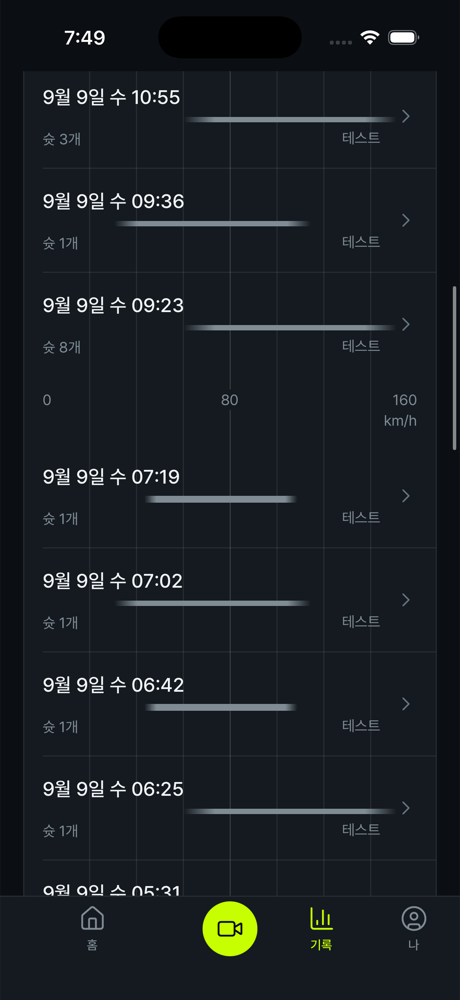
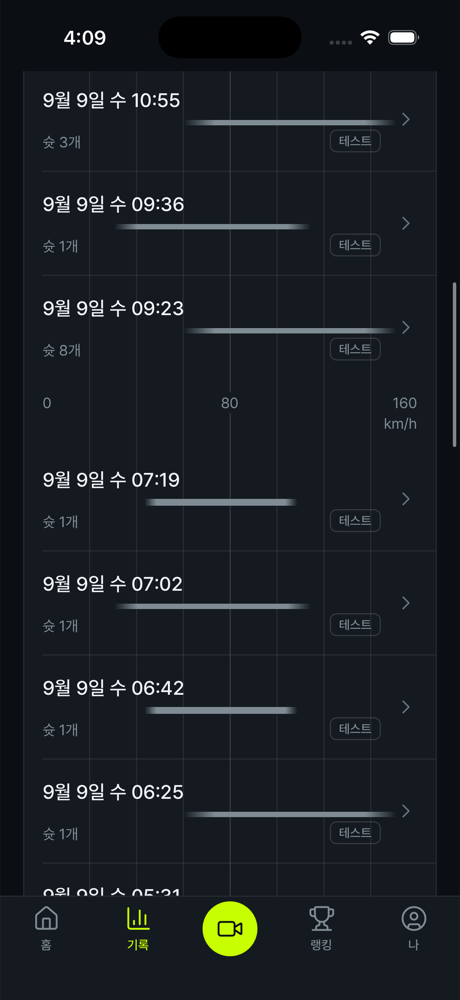
docs(stryke): v5 design record — 15/15 screens re-shot, feedback buttons, design kit
Claude-Session: https://claude.ai/code/session_01YWejWstpsLFcn8hGH8c6eE

diff --git a/stryke/design.html b/stryke/design.html
@@ -22,7 +22,7 @@ ul,ol{color:var(--text2);padding-left:22px}li{margin:4px 0}
 @media(max-width:720px){.pair,.refs{grid-template-columns:1fr}.icons{columns:1}}
 </style></head><body><main>
 <h1>STRYKE — 디자인 기록 v5</h1>
-<p class="lede">앱이 지금 어떻게 보이는지, 왜 그렇게 바꾸는지, 그리고 어디를 눌러 피드백을 남기는지. <span class="meta">생성 2026-09-14 06:56Z · <a href="https://github.com/vxbrandon/stryke/issues?q=is%3Aissue+label%3Adesign-feedback">열린 피드백 보기</a></span></p>
+<p class="lede">앱이 지금 어떻게 보이는지, 왜 그렇게 바꾸는지, 그리고 어디를 눌러 피드백을 남기는지. <span class="meta">생성 2026-09-14 07:09Z · <a href="https://github.com/vxbrandon/stryke/issues?q=is%3Aissue+label%3Adesign-feedback">열린 피드백 보기</a></span></p>
 <nav class="toc"><a href="#log">진단</a><a href="#refs">레퍼런스</a><a href="#screens">화면 (15)</a><a href="#lane3d">3D 레인</a><a href="#kit">디자인 키트</a><a href="#assets">에셋</a><a href="#howto">피드백 방법</a></nav>
 
 <div class="card" id="howto"><h3>피드백 남기는 법 · How to leave feedback</h3>
@@ -123,6 +123,21 @@ ul,ol{color:var(--text2);padding-left:22px}li{margin:4px 0}
 </ol>
 <p>I shot the nine by hand under the lock, reading each frame: restored 한국어, deleted the two sessions the taps had made (device copy; the sheet says the server row stays, and it does), and took the keeper from a 36-second sampling of the replay — sample 5, the dive off the ground. The gate's fifteen entries were stamped only after each frame was read. Published: 15/15.</p>
 <p><b>The picture, judged by me before the judges.</b> 슛 and 세션 read as a floodlit pitch (<code>frames/shot.png</code>, <code>frames/session.png</code>): mown bands, the mast and its haze, a white goal, a thin tracer, the launch pool. 키퍼 frames the save. 홈's card carries the same picture at 132 pt. What I still see: the sky above the horizon is flat near-black where r6 has floodlight glare; the ball at the corner is a few pixels; the card's goal is small. The judges will say whether those are gaps or the honest cost of an 18 m flight drawn at scale.</p>
+<h3>2026-09-14 08:40 — the judges, and chrome batch 2 (<code>f0c0a35</code>)</h3>
+<p><b>What the judges were.</b> Four lenses over the fifteen frames — production (a Strava/NRC/Whoop designer), reference (r6 only, with crops), honesty, craft (pixels against the tokens) — with the evidence rule. Scores 56 / 58 / 58 / 66. <b>The refute stage did not run</b>: 37 of its 51 agents died on the account's session limit, so <code>09-VERDICTS-V5.md</code> holds one judge's claim per gap, unrefuted. I treated each as a claim to check, not a verdict.</p>
+<p><b>The one BLOCKING finding was right and was mine to catch.</b> Three frames were one byte-identical 세팅 screenshot filed as 기록 · 나 · 랭킹, and two more were the wrong screen — the console's second run had overwritten the fork's good frames from the morning and I had read only the frames I shot or deep-linked myself. Fixed by hand (<code>dfdeba5</code>), and the gate now refuses a duplicated image, which is the check that would have caught it.</p>
+<p><b>What batch 2 took from the chrome gaps, and why:</b></p>
+<ul>
+<li><b>랭킹 is the fourth tab.</b> The judges measured the 1:2 grouping (홈 361 px from the disc, 241 px between 기록 and 나) and named it the uneven rhythm no shipped bar has. Three tabs around a centred disc cannot be even; four can, and 랭킹 was already a destination with its own route. This reverses the v3 IA decision (3 + capture) — on evidence, not taste. Its back chevron and its duplicate row on 나 go with it.</li>
+<li><b>A refusal is a left-aligned heading</b>, not a centred display word: the state word was the loudest object on 세션 · 측정 안 됨.</li>
+<li><b>An empty axis prints <code>160 km/h</code> on one line.</b> The stacked unit was a second line under the last tick on every empty and card axis.</li>
+<li><b>An empty hero draws the instrument at the card's 12 pt.</b> The v3.4 rule (&quot;an absence draws the instrument&quot;) stands; 164 pt of groove for nothing did not.</li>
+<li><b>One drawing for 테스트</b>: <code>Tag</code> in list rows and on 비교; 나's card no longer carries two.</li>
+<li><b>Chart hedges share one foot line</b> (<code>기록 없음 · 진행 중</code>).</li>
+<li><b>키퍼: the measurement stands above the caveat</b>, and the value says where the ball crossed (골문 안 / 골문 밖) instead of 유효 — a verdict word on a drawn keeper was an honesty gap the honesty judge found.</li>
+<li>Copy: the delete row's one-syllable widow; <code>확인 중 0</code> is not printed.</li>
+</ul>
+<p><b>Left with the picture lane</b> (sent, with the judges' numbers): the mast head that reads as an iOS &quot;⋯&quot; on the header line, the 40 % black sky slab, the net moiré, the save framed without the ball, the card framing, the vertical-pole map view, the mannequin head, the horizon wedge, the launch pool. <b>Deferred</b>, with the reason: the keeper picture as a bleed (a layout change across a screen the picture lane is mid-edit on); lifting 비교's verdict out of its card; the 슛 segmented control's scrim; the 144 pt capture counter. Each is in <code>09-VERDICTS-V5.md</code> for the next batch.</p>
 
 <h2 id="refs">레퍼런스 보드</h2>
 <p>왼쪽이 창업자가 남긴 방향(r6): 조명 아래의 진짜 잔디, 흰 골대와 그물, 하나의 라임 궤적. 오른쪽 둘(r5)은 홀로그램 계열 — 앱이 지금까지 따라가던 쪽이고, v5가 떠나는 쪽.</p>
@@ -139,7 +154,7 @@ ul,ol{color:var(--text2);padding-left:22px}li{margin:4px 0}
   <p class="shows">이번 주 최고, 이번 주 카운트, 최근 세션 카드, 촬영 시작</p>
   <div class="pair">
     <figure><figcaption>BEFORE · v4.1 (13 Sep)</figcaption><img loading="lazy" src="design-v5/img/before-home.png" alt="홈 before"></figure>
-    <figure><figcaption>AFTER · v5 (2026-09-13 22:56)</figcaption><img loading="lazy" src="design-v5/img/after-home.png" alt="홈 after"></figure>
+    <figure><figcaption>AFTER · v5 (2026-09-14 07:09)</figcaption><img loading="lazy" src="design-v5/img/after-home.png" alt="홈 after"></figure>
   </div>
 </section>
 
@@ -151,7 +166,7 @@ ul,ol{color:var(--text2);padding-left:22px}li{margin:4px 0}
   <p class="shows">주간 컬럼 차트, 카드 스케일의 개인 최고, 세션 목록의 머리</p>
   <div class="pair">
     <figure><figcaption>BEFORE · v4.1 (13 Sep)</figcaption><img loading="lazy" src="design-v5/img/before-records.png" alt="기록 before"></figure>
-    <figure><figcaption>AFTER · v5 (2026-09-14 06:56)</figcaption><img loading="lazy" src="design-v5/img/after-records.png" alt="기록 after"></figure>
+    <figure><figcaption>AFTER · v5 (2026-09-14 07:09)</figcaption><img loading="lazy" src="design-v5/img/after-records.png" alt="기록 after"></figure>
   </div>
 </section>
 
@@ -163,7 +178,7 @@ ul,ol{color:var(--text2);padding-left:22px}li{margin:4px 0}
   <p class="shows">게스트 문장과 카드 스케일 개인 최고, 랭킹·인증·내보내기·설정 행</p>
   <div class="pair">
     <figure><figcaption>BEFORE · v4.1 (13 Sep)</figcaption><img loading="lazy" src="design-v5/img/before-me.png" alt="나 before"></figure>
-    <figure><figcaption>AFTER · v5 (2026-09-14 06:56)</figcaption><img loading="lazy" src="design-v5/img/after-me.png" alt="나 after"></figure>
+    <figure><figcaption>AFTER · v5 (2026-09-14 07:09)</figcaption><img loading="lazy" src="design-v5/img/after-me.png" alt="나 after"></figure>
   </div>
 </section>
 
@@ -175,7 +190,7 @@ ul,ol{color:var(--text2);padding-left:22px}li{margin:4px 0}
   <p class="shows">값 컬럼 앞에서 멈추는 필드 위의 포인트</p>
   <div class="pair">
     <figure><figcaption>BEFORE · v4.1 (13 Sep)</figcaption><img loading="lazy" src="design-v5/img/before-rankings.png" alt="랭킹 before"></figure>
-    <figure><figcaption>AFTER · v5 (2026-09-14 06:56)</figcaption><img loading="lazy" src="design-v5/img/after-rankings.png" alt="랭킹 after"></figure>
+    <figure><figcaption>AFTER · v5 (2026-09-14 07:09)</figcaption><img loading="lazy" src="design-v5/img/after-rankings.png" alt="랭킹 after"></figure>
   </div>
 </section>
 
@@ -199,7 +214,7 @@ ul,ol{color:var(--text2);padding-left:22px}li{margin:4px 0}
   <p class="shows">단위·언어·라이선스·내 데이터 지우기 (나 위의 시트)</p>
   <div class="pair">
     <figure><figcaption>BEFORE · v4.1 (13 Sep)</figcaption><img loading="lazy" src="design-v5/img/before-settings.png" alt="설정 before"></figure>
-    <figure><figcaption>AFTER · v5 (2026-09-13 22:55)</figcaption><img loading="lazy" src="design-v5/img/after-settings.png" alt="설정 after"></figure>
+    <figure><figcaption>AFTER · v5 (2026-09-14 07:09)</figcaption><img loading="lazy" src="design-v5/img/after-settings.png" alt="설정 after"></figure>
   </div>
 </section>
 
@@ -211,7 +226,7 @@ ul,ol{color:var(--text2);padding-left:22px}li{margin:4px 0}
   <p class="shows">기기와 서버를 함께 지운다고 말하는 확인 시트</p>
   <div class="pair">
     <figure><figcaption>BEFORE · v4.1 (13 Sep)</figcaption><img loading="lazy" src="design-v5/img/before-delete.png" alt="나 · 모두 지우기 before"></figure>
-    <figure><figcaption>AFTER · v5 (2026-09-14 06:56)</figcaption><img loading="lazy" src="design-v5/img/after-delete.png" alt="나 · 모두 지우기 after"></figure>
+    <figure><figcaption>AFTER · v5 (2026-09-14 07:09)</figcaption><img loading="lazy" src="design-v5/img/after-delete.png" alt="나 · 모두 지우기 after"></figure>
   </div>
 </section>
 
@@ -223,7 +238,7 @@ ul,ol{color:var(--text2);padding-left:22px}li{margin:4px 0}
   <p class="shows">골대 렌더 위의 궤적, 히어로 그루브, 그 아래 필드 위의 슛 목록</p>
   <div class="pair">
     <figure><figcaption>BEFORE · v4.1 (13 Sep)</figcaption><img loading="lazy" src="design-v5/img/before-session.png" alt="세션 before"></figure>
-    <figure><figcaption>AFTER · v5 (2026-09-13 22:37)</figcaption><img loading="lazy" src="design-v5/img/after-session.png" alt="세션 after"></figure>
+    <figure><figcaption>AFTER · v5 (2026-09-14 07:09)</figcaption><img loading="lazy" src="design-v5/img/after-session.png" alt="세션 after"></figure>
   </div>
 </section>
 
@@ -247,7 +262,7 @@ ul,ol{color:var(--text2);padding-left:22px}li{margin:4px 0}
   <p class="shows">하나의 눈금 위에 두 밴드 — 이번 슛과 이전 최고</p>
   <div class="pair">
     <figure><figcaption>BEFORE · v4.1 (13 Sep)</figcaption><img loading="lazy" src="design-v5/img/before-compare.png" alt="비교 before"></figure>
-    <figure><figcaption>AFTER · v5 (2026-09-13 22:37)</figcaption><img loading="lazy" src="design-v5/img/after-compare.png" alt="비교 after"></figure>
+    <figure><figcaption>AFTER · v5 (2026-09-14 07:09)</figcaption><img loading="lazy" src="design-v5/img/after-compare.png" alt="비교 after"></figure>
   </div>
 </section>
 
@@ -259,7 +274,7 @@ ul,ol{color:var(--text2);padding-left:22px}li{margin:4px 0}
   <p class="shows">골문 앞 키퍼가 그려진 시뮬레이션과 그 아래 측정 — 다이빙 중간에 찍는다</p>
   <div class="pair">
     <figure><figcaption>BEFORE · v4.1 (13 Sep)</figcaption><img loading="lazy" src="design-v5/img/before-keeper.png" alt="키퍼 before"></figure>
-    <figure><figcaption>AFTER · v5 (2026-09-13 22:53)</figcaption><img loading="lazy" src="design-v5/img/after-keeper.png" alt="키퍼 after"></figure>
+    <figure><figcaption>AFTER · v5 (2026-09-14 07:09)</figcaption><img loading="lazy" src="design-v5/img/after-keeper.png" alt="키퍼 after"></figure>
   </div>
 </section>
 
@@ -271,7 +286,7 @@ ul,ol{color:var(--text2);padding-left:22px}li{margin:4px 0}
   <p class="shows">스크롤 중간에서 되풀이되는 눈금과, 자기 줄 위에 놓인 마크들</p>
   <div class="pair">
     <figure><figcaption>BEFORE · v4.1 (13 Sep)</figcaption><img loading="lazy" src="design-v5/img/before-session-list.png" alt="기록 · 세션 목록 before"></figure>
-    <figure><figcaption>AFTER · v5 (2026-09-13 22:53)</figcaption><img loading="lazy" src="design-v5/img/after-session-list.png" alt="기록 · 세션 목록 after"></figure>
+    <figure><figcaption>AFTER · v5 (2026-09-14 07:09)</figcaption><img loading="lazy" src="design-v5/img/after-session-list.png" alt="기록 · 세션 목록 after"></figure>
   </div>
 </section>
 
@@ -283,7 +298,7 @@ ul,ol{color:var(--text2);padding-left:22px}li{margin:4px 0}
   <p class="shows">빈 골대, 빈 그루브, 마크가 하나도 없는 슛 목록 (측정이 거부된 세션이 목록에 있어야 한다)</p>
   <div class="pair">
     <figure><figcaption>BEFORE · v4.1 (13 Sep)</figcaption><img loading="lazy" src="design-v5/img/before-session-refused.png" alt="세션 · 측정 안 됨 before"></figure>
-    <figure><figcaption>AFTER · v5 (2026-09-13 22:37)</figcaption><img loading="lazy" src="design-v5/img/after-session-refused.png" alt="세션 · 측정 안 됨 after"></figure>
+    <figure><figcaption>AFTER · v5 (2026-09-14 07:09)</figcaption><img loading="lazy" src="design-v5/img/after-session-refused.png" alt="세션 · 측정 안 됨 after"></figure>
   </div>
 </section>
 
